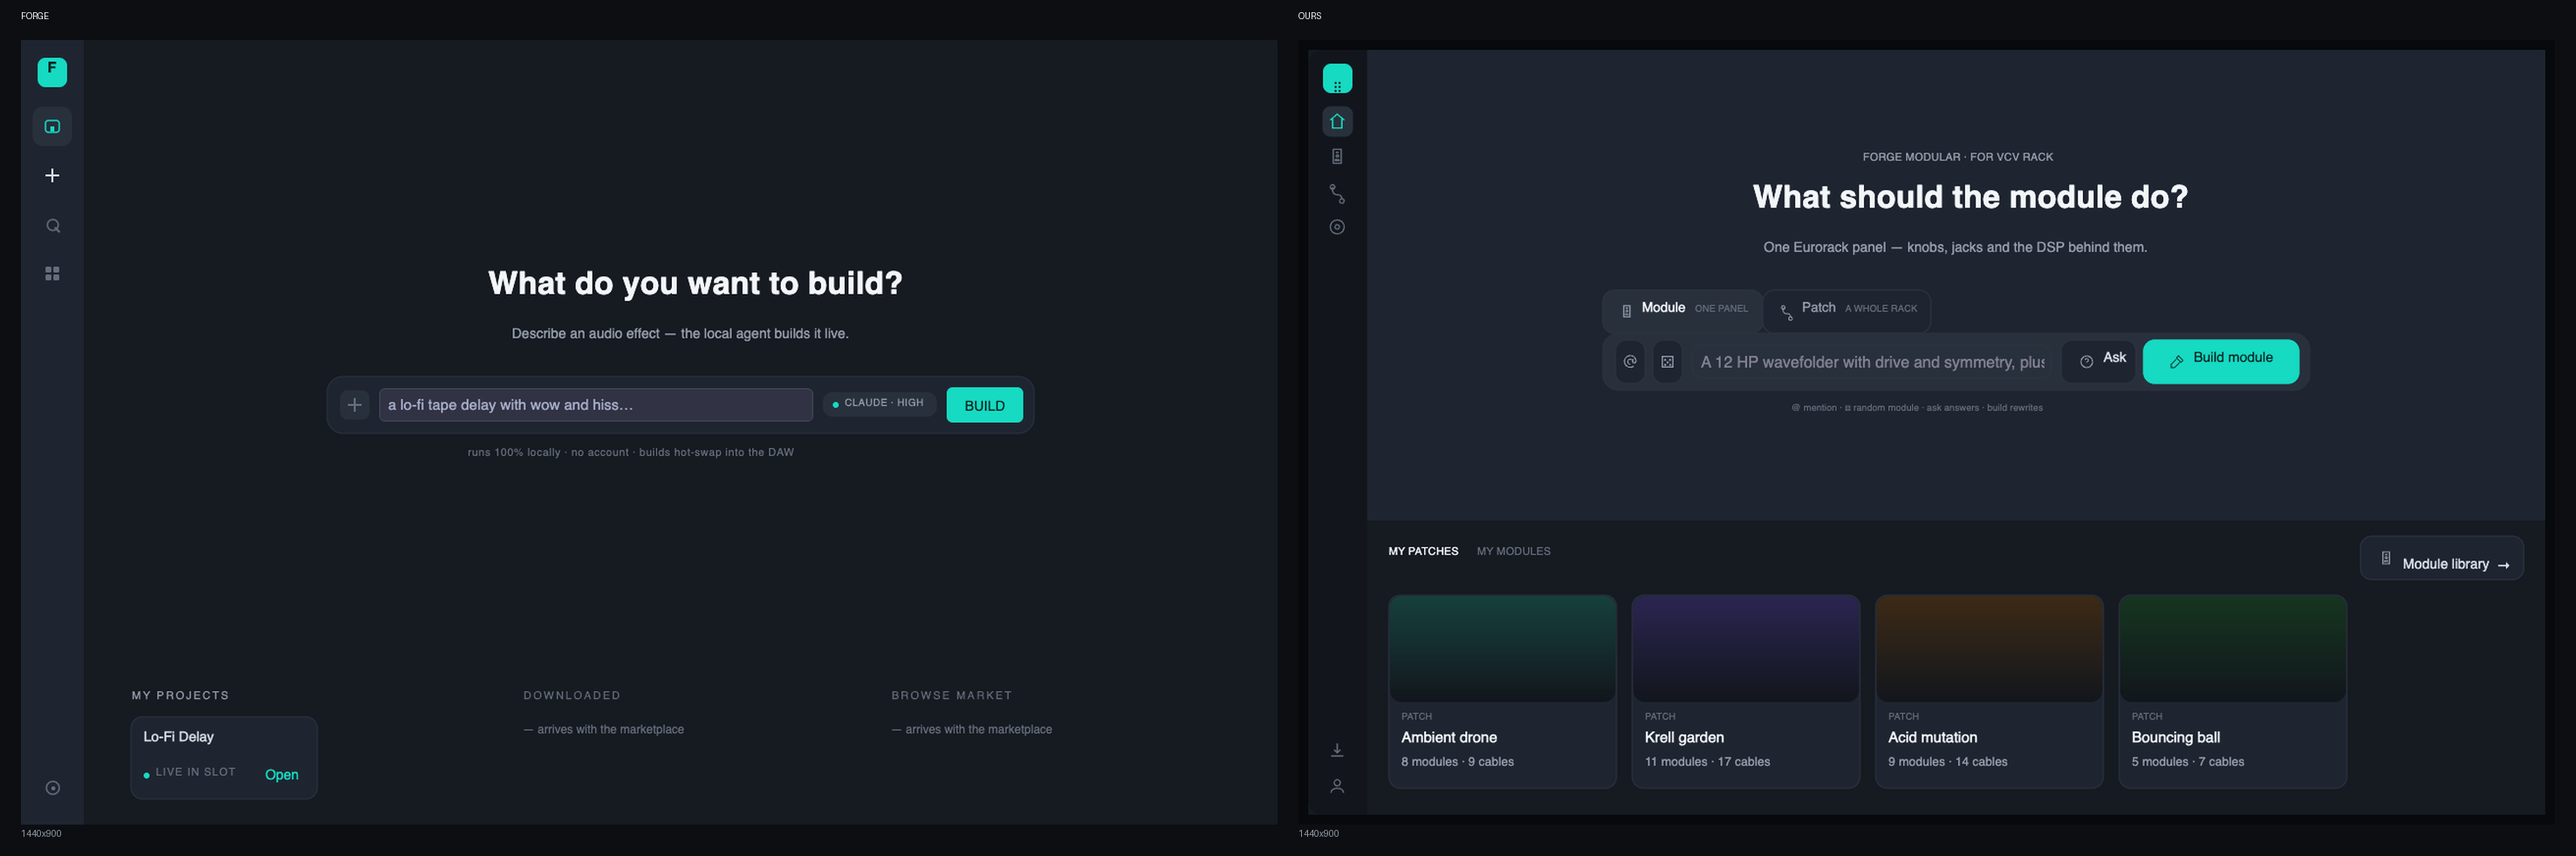
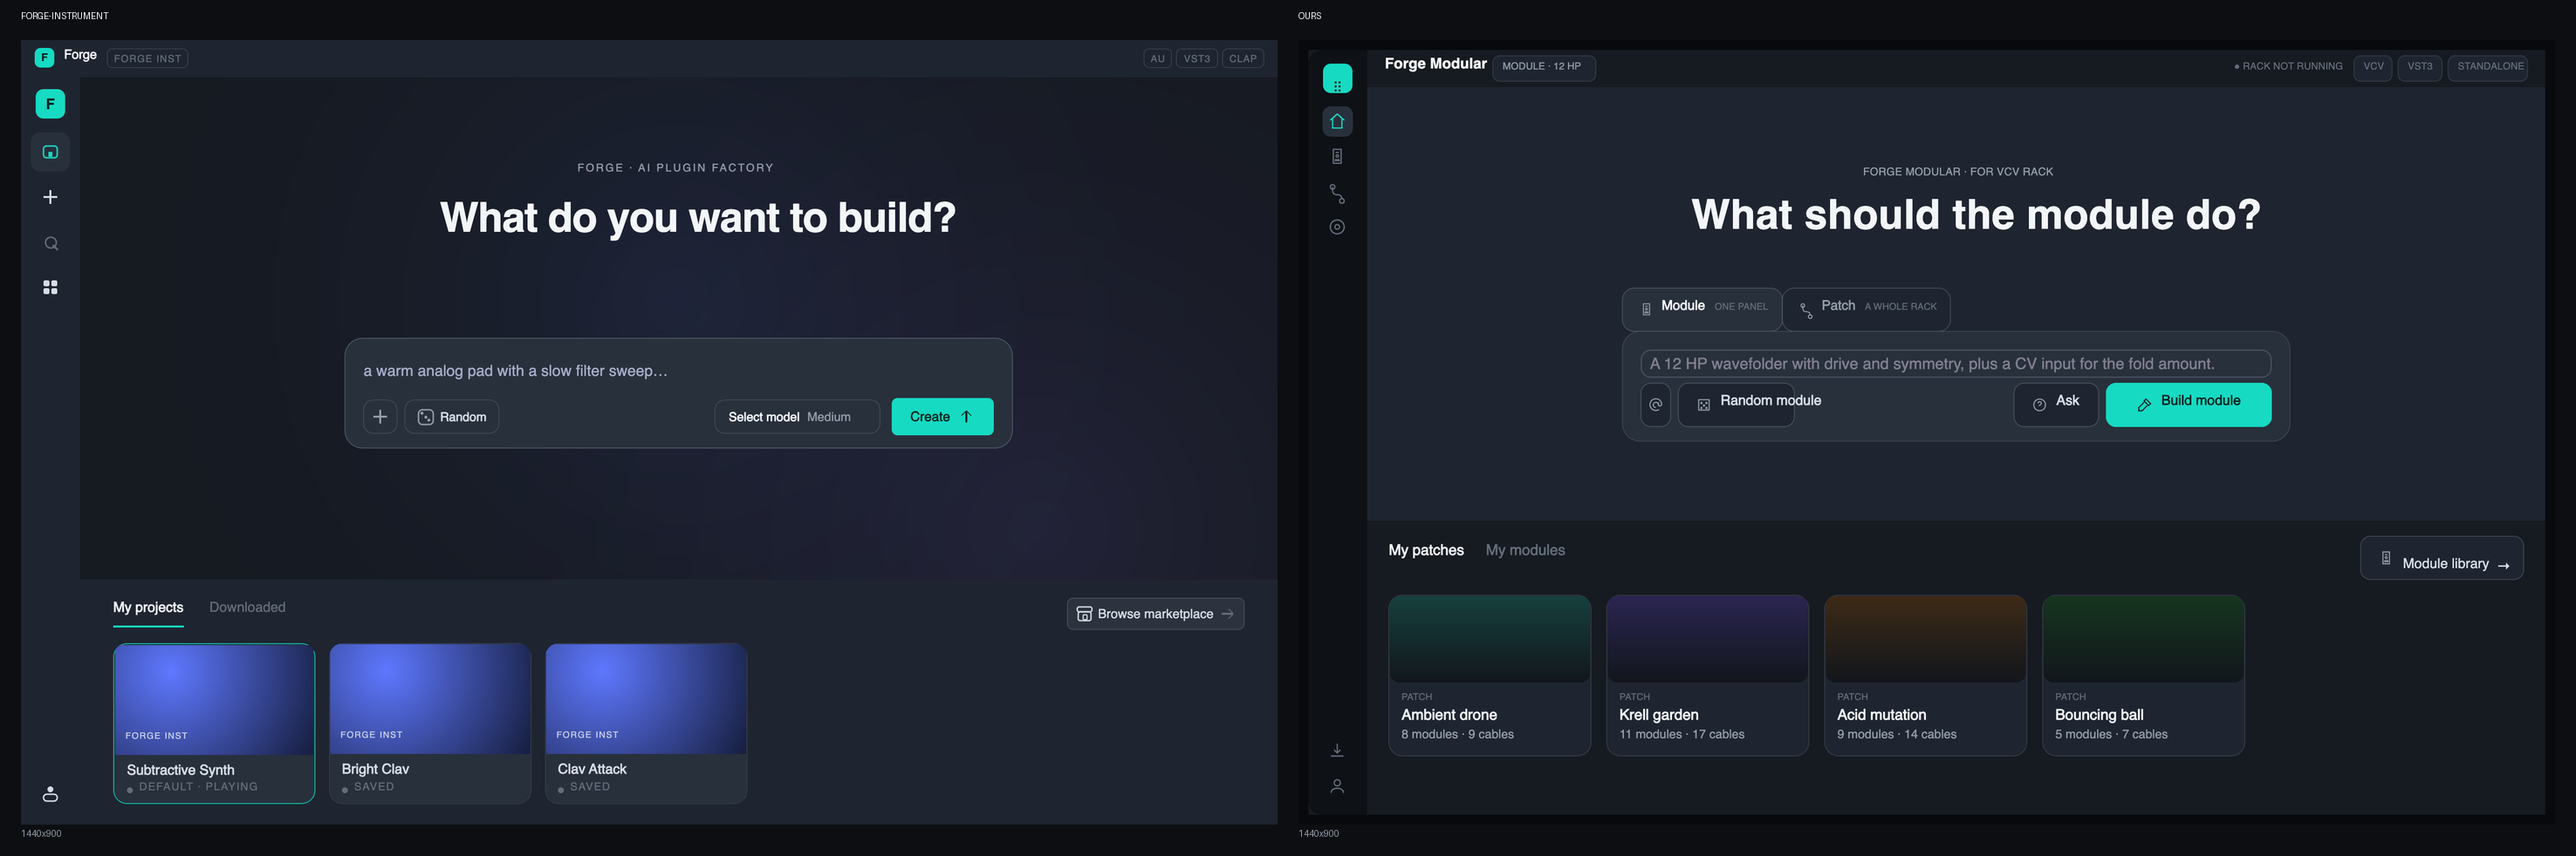
Align to the CURRENT Forge Instrument, not a build 431 commits stale
The previous pass compared against local Forge main, which is 431 commits
behind origin/main. Everything drawn from it was wrong in a way that looked
authoritative: the line colour, the hero size, the composer shape, and
whether Forge has a title bar at all.

The real source is include/forge/design_tokens.hpp -- the semantic contract
Forge's chrome, chat and Theme all consume, which is the one file that
cannot drift. All 20 shared tokens now match it, and the parity check reads
it instead of chrome.cpp so this class of mistake cannot repeat.

What the stale file got wrong, corrected by building Forge Instrument's
standalone from origin/main and looking at it:

- Lines are TRANSLUCENT light (#DCE8FA1F), not opaque #2B3340. Reading them
  as dark grey is why every panel looked flat.
- The hero is 42, not 32.
- Forge HAS a title bar, 38px. Ours had been hidden.
- The composer is a CARD -- text above one action row -- not a 58px single
  row. Chasing the stale shape stacked it into three rows and pushed Build
  outside the card.
- Shelf tabs are display type, not mono uppercase.
- surface_sunken is a real token; the rail had an invented near-black.

design/prototype/forge-instrument.png is the reference, built and
screenshotted the same way as ours; ab-forge-vs-ours.png is the sheet.
17.7/255, and what remains is the tabs, the hero wording and the per-patch
card tints -- the product differing rather than the brand.

diff --git a/examples/forge-modular/app/ui/main.js b/examples/forge-modular/app/ui/main.js
@@ -12,56 +12,75 @@
 //
 // Ink & Signal throughout, shared with Forge, because these are one brand.
 
-// ── design tokens, taken from Forge ──────────────────────────────────────────
+// ── design tokens, from Forge's design_tokens.hpp ────────────────────────────
 //
-// Copied value-for-value from Forge's src/chrome.cpp, not approximated. Forge
-// Modular is a sibling product, so it should differ where the product differs
-// and nowhere else -- and several of these were quietly wrong before, which is
-// why it read as a different app: the app background, the rail width, the hero
-// size, and a composer nearly 300px too wide.
+// Transcribed from `include/forge/design_tokens.hpp` on Forge's origin/main --
+// the semantic contract its chrome, chat and Theme all consume. Earlier this
+// was copied from a chrome.cpp that was 431 commits stale, which got the line
+// colour, the hero size, the composer shape and the title bar all wrong.
 //
-// The comment on each line is Forge's own token name, so a change there can be
-// found here.
+// Each line carries Forge's own token name so a change there can be found here.
 
 const C = {
-    appBg:      "#161A21",   // kAppBg      --surface-app
-    panel:      "#1E2530",   // kPanel      --surface-panel
-    raised:     "#28303C",   // kRaised     --surface-raised
-    line:       "#2B3340",   // kLine       --line
-    accent:     "#16DAC2",   // kAccent     --ink-signal
-    accentDeep: "#10B6A3",   // kAccentDim  --ink-signal-deep
-    onAccent:   "#052320",   // kOnInk      --on-ink
-    textStrong: "#F3F6F9",   // kTextStrong --text-strong
-    text:       "#D6DCE4",   // kText       --text
-    muted:      "#939CA9",   // kMuted      --text-muted
-    faint:      "#646D7A",   // kFaint      --text-faint
-    coral:      "#FF5C4D",   // kCoral      --ink-coral  (errors; was amber here)
-    ghost:      "#37404D",   // kGhost      skeleton bones
-
-    // Forge Modular's own, because a rack has roles a plugin does not: cable
-    // groups in the chat and the preview are colour-coded by what they carry.
-    violet:     "#8B6CF5",
-    leaf:       "#3FCF77",
+    appBg:      "#161A21",     // surface_app
+    sunken:     "#0E1116",     // surface_sunken   (the rail)
+    panel:      "#1E2530",     // surface_panel
+    raised:     "#28303C",     // surface_raised
+    overlay:    "#2F3743",     // surface_overlay
+    // Lines are TRANSLUCENT light, not dark grey -- they lift off whatever they
+    // sit on. Reading them as opaque #2B3340 is why panels looked flat.
+    line:       "#DCE8FA1F",   // line
+    lineStrong: "#DCE8FA38",   // line_strong
+    accent:     "#16DAC2",     // accent
+    accentDeep: "#10B6A3",     // accent_deep
+    onAccent:   "#052320",     // accent_text
+    textStrong: "#F3F6F9",     // text_strong
+    text:       "#D6DCE4",     // text
+    muted:      "#939CA9",     // text_muted
+    faint:      "#646D7A",     // text_faint
+    amber:      "#F6B847",     // amber
+    coral:      "#FF5C4D",     // coral
+    violet:     "#8B6CF5",     // violet
+    indigo:     "#5E78FF",     // indigo
+    leaf:       "#3FCF77",     // success
+    ghost:      "#37404D",     // skeleton
 };
 
-// Forge's shell geometry. The silhouette is the thing a person recognises, so
-// these are the numbers to match before any styling detail.
+const R = {
+    small:  6,   // radius::small
+    medium: 10,  // radius::medium
+    large:  14,  // radius::large
+    hero:   18,  // radius::hero
+};
+
 const G = {
-    railWidth:      60,      // kShellRailWidth   (was 64)
-    gutter:         48,      // center padding on the home screen
-    promptWidth:    720,     // the prompt row     (was 1000 -- the big one)
-    promptHeight:   58,
-    promptRadius:   16,
-    toolbarHeight:  52,      // kWorkspaceToolbarHeight (was 46)
-    chatWidth:      384,     // kBuildChatWidth    (was 460)
-    heroTitleSize:  32,      // kHeroTitleSize     (was 44)
-    heroSubSize:    14,
-    iconTile:       30,      // Forge's 30x30 radius-8 tile
+    titleBarHeight: 38,   // shell_title_bar_height -- Forge HAS one
+    railWidth:      60,   // shell_rail_width
+    gutter:         60,   // home_horizontal_gutter
+    promptWidth:    680,  // home_prompt_width
+    // The composer is a card that opens at one line and grows to three, centred
+    // in a fixed slot so the hero above it never moves. Not a 58px row -- that
+    // was the stale build.
+    promptHeight:   112,  // home_prompt_collapsed_height
+    promptSlot:     204,  // home_prompt_slot_height
+    promptPadding:  18,   // kHomePromptPadding
+    shelfHeight:    250,  // home_shelf_height
+    shelfInset:     34,   // home_shelf_horizontal_inset
+    cardWidth:      206,  // home_project_card_width
+    cardHeight:     164,  // home_project_card_height
+    cardArtHeight:  112,  // home_project_art_height
+    toolbarHeight:  52,   // workspace_toolbar_height
+    chatWidth:      384,  // build_chat_width
+    heroTitleSize:  42,   // type::hero
+    bodySize:       15,   // type::body
+    secondarySize:  13,   // type::secondary
+    microSize:      11,   // type::micro
+    iconTile:       30,
     iconTileRadius: 8,
 };
 
-const FONT = "Jost";              // kFontDisplay
-const MONO = "JetBrains Mono";    // kFontMono
+const FONT = "Jost";              // type::display
+const MONO = "JetBrains Mono";    // type::mono
 
 let mode = "module";      // "module" | "patch"
 let lastRandom = "";      // so Random never offers the same prompt twice running
@@ -119,7 +138,7 @@ const rail = createCol("rail", "shell");
 // Forge's rail is a darker column than the app behind it, and only the ACTIVE
 // item carries a raised tile -- the rest are bare glyphs. Tiling every item is
 // what made ours look like a toolbar rather than a rail.
-setBackground("rail", "#12161C");
+setBackground("rail", C.sunken);
 setFlex("rail", "width", G.railWidth);
 setFlex("rail", "align_items", "center");
 setFlex("rail", "padding_top", 14);
@@ -224,9 +243,9 @@ function railIcon(id, glyph, active, marginTop) {
     // The rail reads as icons, not buttons. An unselected tile takes the rail's
     // own colour on both background and border, or the rail becomes a grid of
     // boxes -- which is what it looked like before these were set.
-    setToggleBackground(id, "#12161C", C.raised);
-    setToggleBorderColor(id, "#12161C", C.raised);
-    setBackground(id, active ? C.raised : "#12161C");
+    setToggleBackground(id, C.sunken, C.raised);
+    setToggleBorderColor(id, C.sunken, C.raised);
+    setBackground(id, active ? C.raised : C.sunken);
     setCornerRadius(id, G.iconTileRadius);
     setFlex(id, "width", G.iconTile);
     setFlex(id, "height", G.iconTile);
@@ -264,11 +283,11 @@ setCornerRadius("main", "BottomRight", 14);
 // ── top bar ──────────────────────────────────────────────────────────────────
 
 const topbar = createRow("topbar", "main");
-setVisible("topbar", false);   // Forge has no title bar; see the caption below
+
 setFlex("topbar", "align_items", "center");
 setFlex("topbar", "padding_left", 18);
 setFlex("topbar", "padding_right", 18);
-setFlex("topbar", "height", G.toolbarHeight);
+setFlex("topbar", "height", G.titleBarHeight);
 setCornerRadius("topbar", "TopRight", 14);
 
 createLabel("topbar-name", "Forge Modular", "topbar");
@@ -342,9 +361,10 @@ setFlex("hero-title", "margin_top", 12);
 
 createLabel("hero-sub", "One Eurorack panel — knobs, jacks and the DSP behind them.", "hero");
 setFontFamily("hero-sub", FONT);
-setFontSize("hero-sub", G.heroSubSize);
+setFontSize("hero-sub", G.secondarySize);
 setTextColor("hero-sub", C.muted);
 setFlex("hero-sub", "margin_top", 10);
+setVisible("hero-sub", false);   // Forge Instrument has no subtitle here
 
 // ── tabs, joined to the composer ─────────────────────────────────────────────
 //
@@ -407,22 +427,15 @@ setToggleOn("tab-module", true);
 const composer = createCol("composer", "hero");
 setBackground("composer", C.raised);
 setBorder("composer", C.line, 1);
-setCornerRadius("composer", G.promptRadius);
+setCornerRadius("composer", R.hero);
 setFlex("composer", "width", G.promptWidth);
 setFlex("composer", "max_width", G.promptWidth);
 setFlex("composer", "flex_grow", 0);
 setFlex("composer", "flex_shrink", 0);
 setFlex("composer", "height", G.promptHeight);
-setFlex("composer", "direction", "row");
-setFlex("composer", "align_items", "center");
-setFlex("composer", "padding_left", 12);
-setFlex("composer", "padding_right", 10);
-setFlex("composer", "gap", 10);
-
-const promptTiles = createRow("actions", "composer");
-setFlex("actions", "align_items", "center");
-setFlex("actions", "gap", 8);
-setFlex("actions", "flex_shrink", 0);
+setFlex("composer", "direction", "column");
+setFlex("composer", "padding", G.promptPadding);
+setFlex("composer", "gap", 12);
 
 const prompt = createTextEditor("prompt", "composer");
 setFontFamily("prompt", FONT);
@@ -434,12 +447,25 @@ setFlex("prompt", "flex_shrink", 1);
 setFlex("prompt", "min_width", 0);
 setFlex("prompt", "height", 34);
 setBorder("prompt", C.line, 1);
-setCornerRadius("prompt", 10);
+setCornerRadius("prompt", R.medium);
 setFlex("prompt", "padding_left", 10);
 setPlaceholder("prompt",
     "A 12 HP wavefolder with drive and symmetry, plus a CV input for the fold amount.");
 
-const actionsRight = createRow("actions-right", "composer");
+// One row under the text, the way Forge draws it.
+const composerRow = createRow("composer-row", "composer");
+setFlex("composer-row", "align_items", "center");
+setFlex("composer-row", "width", "100%");
+
+const promptTiles = createRow("actions", "composer-row");
+setFlex("actions", "align_items", "center");
+setFlex("actions", "gap", 8);
+setFlex("actions", "flex_shrink", 0);
+
+const composerGap = createRow("composer-gap", "composer-row");
+setFlex("composer-gap", "flex_grow", 1);
+
+const actionsRight = createRow("actions-right", "composer-row");
 setFlex("actions-right", "align_items", "center");
 setFlex("actions-right", "gap", 8);
 setFlex("actions-right", "flex_shrink", 0);
@@ -455,7 +481,7 @@ function button(id, parent, glyph, label, kind, width) {
     setToggleBorderColor(id, edge, edge);
     setBackground(id, fill);
     setBorder(id, edge, 1);
-    setCornerRadius(id, 11);
+    setCornerRadius(id, R.medium);
     setFlex(id, "padding_left", kind === "icon" ? 13 : 17);
     setFlex(id, "padding_right", kind === "icon" ? 13 : 17);
     setFlex(id, "padding_top", 11);
@@ -490,18 +516,19 @@ function button(id, parent, glyph, label, kind, width) {
 // overflowed with the hint text printed straight through them -- so the two
 // utilities are tiles and the caption below says what they do.
 button("btn-mention", "actions", "at", "", "icon", G.iconTile);
-button("btn-random", "actions", "dice", "", "icon", G.iconTile);
+button("btn-random", "actions", "dice", "Random", "ghost", 118);
 
 // Two labelled buttons rather than an inferred intent chip: a chip guesses and
 // the user still has to notice the guess, while an unwanted rebuild rewrites
 // their work and an unwanted answer costs nothing.
-button("btn-ask", "actions-right", "ask", "Ask", "ghost", 76);
-button("btn-build", "actions-right", "hammer", "Build module", "primary", 158);
+button("btn-ask", "actions-right", "ask", "Ask", "ghost", 86);
+button("btn-build", "actions-right", "hammer", "Build module", "primary", 168);
 setBoxShadow("btn-build", 0, 0, 18, 2, "#16DAC255");
 
 createLabel("composer-hint",
             "@ mention · \u2684 random · ask answers · build rewrites",
             "hero");
+setVisible("composer-hint", false);
 setFontFamily("composer-hint", MONO);
 setFontSize("composer-hint", 9.5);
 setLetterSpacing("composer-hint", 0.06);
@@ -530,16 +557,15 @@ function shelfTab(id, title, active) {
     setToggleBackground(id, C.appBg, C.appBg);
     setToggleBorderColor(id, C.appBg, C.appBg);
     textLabel(id + "-text", title, id);
-    setFontFamily(id + "-text", MONO);
-    setFontSize(id + "-text", 11);
-    setFontWeight(id + "-text", 500);
-    setLetterSpacing(id + "-text", 0.14);
+    setFontFamily(id + "-text", FONT);
+    setFontSize(id + "-text", G.bodySize);
+    setFontWeight(id + "-text", 600);
     setTextColor(id + "-text", active ? C.textStrong : C.faint);
     return t;
 }
 
-shelfTab("shelf-patches", "MY PATCHES", true);
-shelfTab("shelf-modules", "MY MODULES", false);
+shelfTab("shelf-patches", "My patches", true);
+shelfTab("shelf-modules", "My modules", false);
 
 const shelfGap = createRow("shelf-gap", "shelf-bar");
 setFlex("shelf-gap", "flex_grow", 1);
@@ -555,8 +581,9 @@ function card(id, kind, title, count, tint) {
     const c = createCol(id, "cards");
     setBackground(id, C.panel);
     setBorder(id, C.line, 1);
-    setCornerRadius(id, 12);
-    setFlex(id, "width", 232);
+    setCornerRadius(id, R.large);
+    setFlex(id, "width", G.cardWidth);
+    setFlex(id, "height", G.cardHeight);
     setFlex(id, "margin_right", 16);
     setFlex(id, "direction", "column");
 
@@ -564,8 +591,8 @@ function card(id, kind, title, count, tint) {
     setBackground(id + "-art", tint);
     setBackgroundGradient(id + "-art",
                           "linear-gradient(160deg, " + tint + " 0%, #12161C 100%)");
-    setCornerRadius(id + "-art", 12);
-    setFlex(id + "-art", "height", 108);
+    setCornerRadius(id + "-art", R.medium);
+    setFlex(id + "-art", "height", G.cardArtHeight);
 
     createLabel(id + "-kind", kind, id);
     setFontFamily(id + "-kind", MONO);

diff --git a/tools/rack/test_ui_script.py b/tools/rack/test_ui_script.py
@@ -122,29 +122,44 @@ def main():
     # else -- and it had drifted on the app background, the rail width, the hero
     # size and a composer 280px too wide, which is what made it read as a
     # different app.
-    forge = "/Volumes/Workshop/Code/forge/src/chrome.cpp"
-    if os.path.exists(forge):
+    # Brand parity against Forge's SEMANTIC token contract, not its chrome.
+    # design_tokens.hpp is what Forge's chrome, chat and Theme all consume, so it
+    # is the one file that cannot drift. Reading chrome.cpp instead compared
+    # against a working tree 431 commits stale and confidently reported a line
+    # colour, a hero size and a composer shape that Forge had long since changed.
+    forge = None
+    for cand in ("/tmp/forge-cur/include/forge/design_tokens.hpp",
+                 "/Volumes/Workshop/Code/forge/include/forge/design_tokens.hpp"):
+        if os.path.exists(cand):
+            forge = cand
+            break
+    if forge:
         ftext = open(forge, errors="replace").read()
         theirs = {}
-        for name, r, g, b in re.findall(
-                r"const Color k(\w+) = Color::rgba8\(0x(\w\w), 0x(\w\w), 0x(\w\w)\)", ftext):
-            theirs[name.lower()] = f"#{r}{g}{b}".upper()
-        ours = dict(re.findall(r'^\s+(\w+):\s*"(#[0-9A-Fa-f]{6})"', text, re.M))
-        # Their token name -> ours. Only the ones both products have.
-        PAIRS = {"appbg": "appBg", "panel": "panel", "raised": "raised",
-                 "line": "line", "accent": "accent", "accentdim": "accentDeep",
-                 "onink": "onAccent", "textstrong": "textStrong", "text": "text",
-                 "muted": "muted", "faint": "faint", "coral": "coral",
-                 "ghost": "ghost"}
+        for name, args in re.findall(
+                r"inline constexpr Color (\w+) = Color::rgba8\(([^)]*)\)", ftext):
+            parts = [x.strip() for x in args.split(",")]
+            hexes = "".join(f"{int(x,16):02X}" for x in parts if x.startswith("0x"))
+            theirs[name] = "#" + hexes
+        ours = dict(re.findall(r'^\s+(\w+):\s*"(#[0-9A-Fa-f]{6,8})"', text, re.M))
+        PAIRS = {"surface_app": "appBg", "surface_sunken": "sunken",
+                 "surface_panel": "panel", "surface_raised": "raised",
+                 "surface_overlay": "overlay", "line": "line",
+                 "line_strong": "lineStrong", "accent": "accent",
+                 "accent_deep": "accentDeep", "accent_text": "onAccent",
+                 "text_strong": "textStrong", "text": "text",
+                 "text_muted": "muted", "text_faint": "faint",
+                 "amber": "amber", "coral": "coral", "violet": "violet",
+                 "indigo": "indigo", "success": "leaf", "skeleton": "ghost"}
         drift = [(t, theirs[t], ours.get(o, "(missing)"))
                  for t, o in PAIRS.items()
                  if t in theirs and ours.get(o, "").upper() != theirs[t]]
         if drift:
-            for t, want, got in drift[:6]:
+            for t, want, got in drift[:8]:
                 print(f"  WRONG  {t}: Forge has {want}, we have {got}")
             bad += 1
         else:
-            print(f"  ok     all {len(PAIRS)} shared tokens match Forge's chrome.cpp")
+            print(f"  ok     all {len(PAIRS)} tokens match Forge's design_tokens.hpp")
 
     # A colour that is not defined evaluates to undefined and the style call
     # silently does nothing. Renaming the palette to Forge's tokens left three
